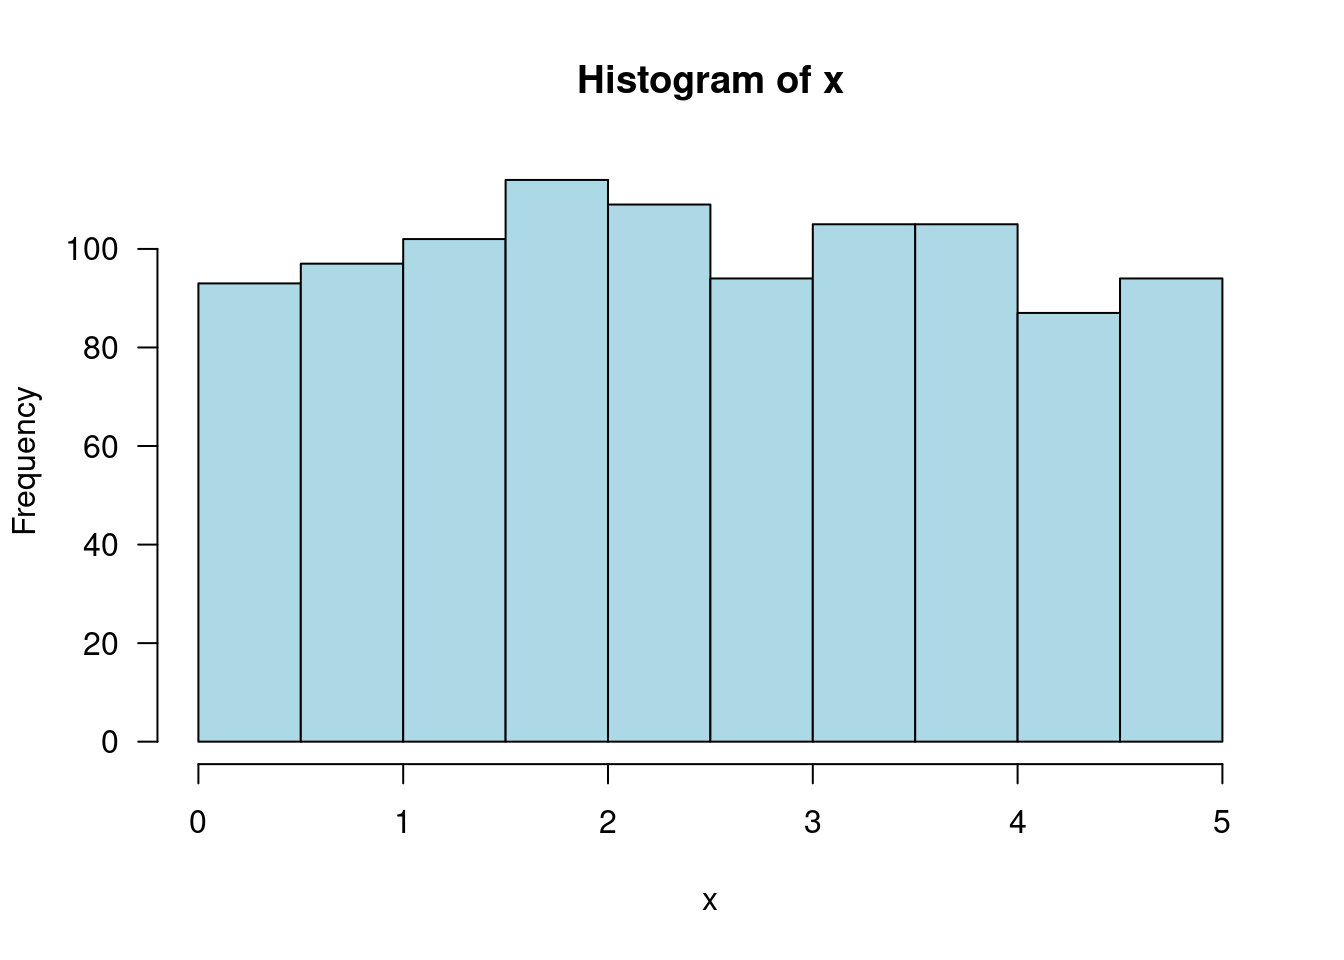
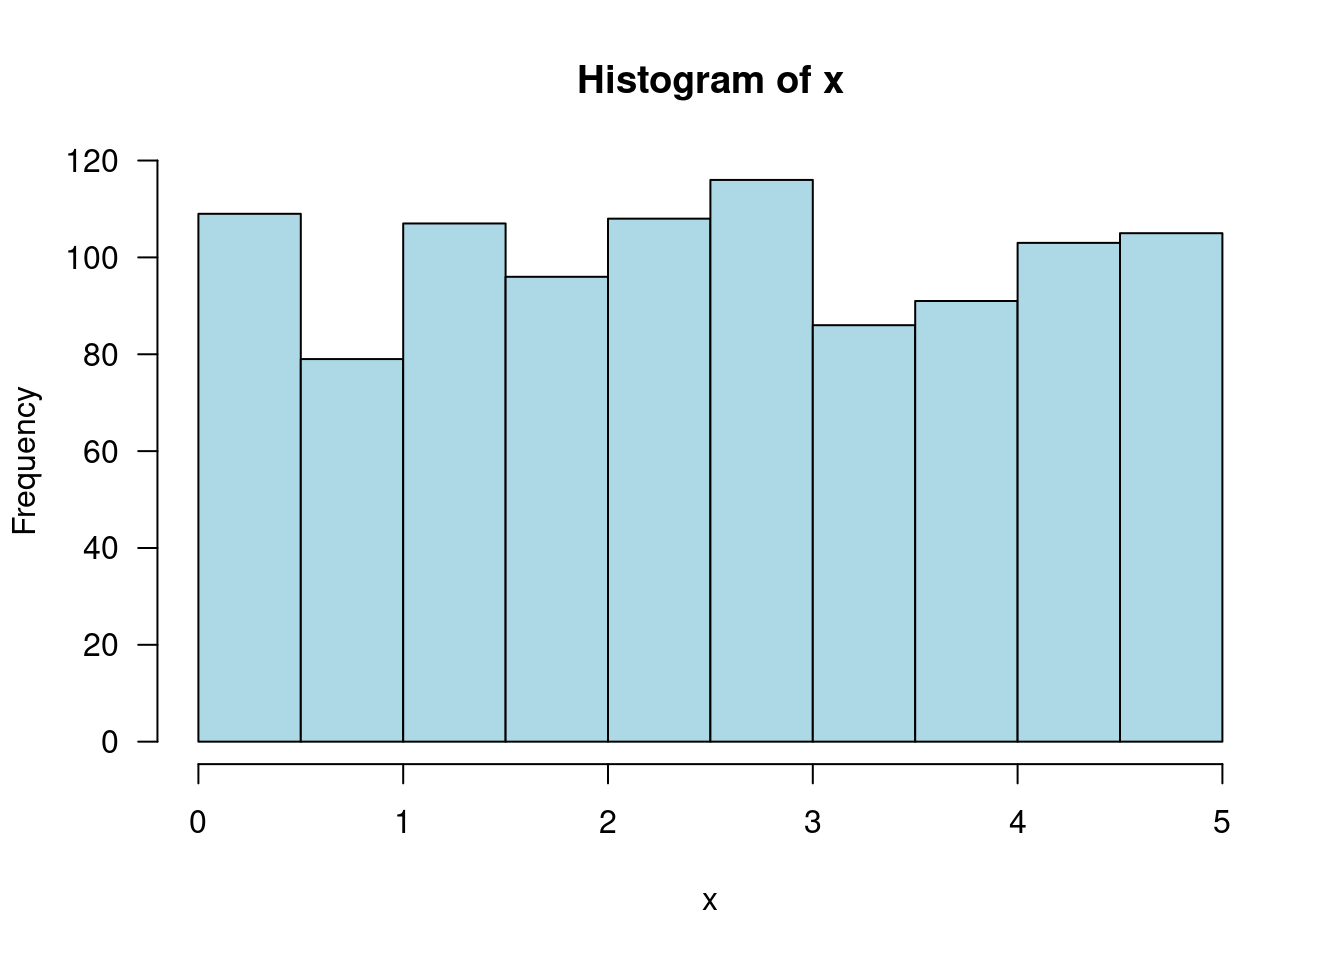
Deploying to gh-pages from @ jtr13/1201@7f78ba49e4dfbabc072da14708db93da759f95f0 🚀

diff --git a/ch.-4-continuous-random-variables-and-probability-distributions.html b/ch.-4-continuous-random-variables-and-probability-distributions.html
@@ -81,12 +81,12 @@
 <p><span class="math inline">\(f(x) = .2\)</span> for <span class="math inline">\(0 \leq x \leq 5\)</span>, 0 otherwise.</p>
 <div class="sourceCode" id="cb158"><pre class="downlit sourceCode r">
 <code class="sourceCode R"><span><span class="fu"><a href="https://rdrr.io/r/stats/Uniform.html">runif</a></span><span class="op">(</span>n <span class="op">=</span> <span class="fl">1</span>, min <span class="op">=</span> <span class="fl">0</span>, max <span class="op">=</span> <span class="fl">5</span><span class="op">)</span></span></code></pre></div>
-<pre><code>## [1] 1.09591</code></pre>
+<pre><code>## [1] 0.4337674</code></pre>
 <p>Take the average of 1000 picks:</p>
 <div class="sourceCode" id="cb160"><pre class="downlit sourceCode r">
 <code class="sourceCode R"><span><span class="va">x</span> <span class="op">&lt;-</span> <span class="fu"><a href="https://rdrr.io/r/stats/Uniform.html">runif</a></span><span class="op">(</span>n <span class="op">=</span> <span class="fl">1000</span>, min <span class="op">=</span> <span class="fl">0</span>, max <span class="op">=</span> <span class="fl">5</span><span class="op">)</span></span>
 <span><span class="fu"><a href="https://rdrr.io/r/base/mean.html">mean</a></span><span class="op">(</span><span class="va">x</span><span class="op">)</span></span></code></pre></div>
-<pre><code>## [1] 2.48266</code></pre>
+<pre><code>## [1] 2.505055</code></pre>
 <p>Draw a histogram of the 1000 picks:</p>
 <div class="sourceCode" id="cb162"><pre class="downlit sourceCode r">
 <code class="sourceCode R"><span><span class="fu"><a href="https://rdrr.io/r/graphics/hist.html">hist</a></span><span class="op">(</span><span class="va">x</span>, las <span class="op">=</span> <span class="fl">1</span>, col <span class="op">=</span> <span class="st">"lightblue"</span><span class="op">)</span></span></code></pre></div>

diff --git a/ch.-1-descriptive-statistics.html b/ch.-1-descriptive-statistics.html
@@ -76,12 +76,12 @@
 <p><strong>Ex:</strong> To generate a sample of 6 numbers from the integers between 1 and 20:</p>
 <div class="sourceCode" id="cb26"><pre class="downlit sourceCode r">
 <code class="sourceCode R"><span><span class="fu"><a href="https://rdrr.io/r/base/sample.html">sample</a></span><span class="op">(</span>x <span class="op">=</span> <span class="fl">1</span><span class="op">:</span><span class="fl">20</span>, size  <span class="op">=</span> <span class="fl">6</span><span class="op">)</span></span></code></pre></div>
-<pre><code>## [1] 13 10 16  8  9 15</code></pre>
+<pre><code>## [1] 11  7 14  3  5 16</code></pre>
 <p>Note: this syntax assumes that there is no replacement (it won’t pick the same number twice).
 If you want to sample <em>with</em> replacement use the following:</p>
 <div class="sourceCode" id="cb28"><pre class="downlit sourceCode r">
 <code class="sourceCode R"><span><span class="fu"><a href="https://rdrr.io/r/base/sample.html">sample</a></span><span class="op">(</span>x <span class="op">=</span> <span class="fl">1</span><span class="op">:</span><span class="fl">20</span>, size <span class="op">=</span> <span class="fl">8</span>, replace <span class="op">=</span> <span class="cn">TRUE</span><span class="op">)</span></span></code></pre></div>
-<pre><code>## [1] 17  9  7  5  3 17  9  4</code></pre>
+<pre><code>## [1] 16  6 12 11 12 11  3  7</code></pre>
 </div>
 <div id="pictorial-and-tabular-methods-in-descriptive-statistics" class="section level2 unnumbered">
 <h2>1.2 Pictorial and Tabular Methods in Descriptive Statistics<a class="anchor" aria-label="anchor" href="#pictorial-and-tabular-methods-in-descriptive-statistics"><i class="fas fa-link"></i></a>

diff --git a/ch.-6-point-estimation.html b/ch.-6-point-estimation.html
@@ -78,7 +78,7 @@
 <h2>6.2 Methods of Point Estimation<a class="anchor" aria-label="anchor" href="#methods-of-point-estimation"><i class="fas fa-link"></i></a>
 </h2>
 <p>Skip “The Method of Moments” pp. 264-266</p>
-<p>Skip from blue box on p. 268 to send of section.</p>
+<p>Skip from blue box on p. 268 to the end of the section.</p>
 
 </div>
 </div>
